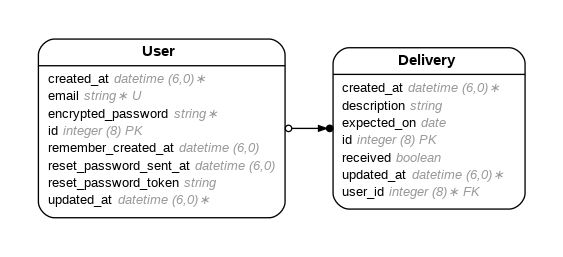
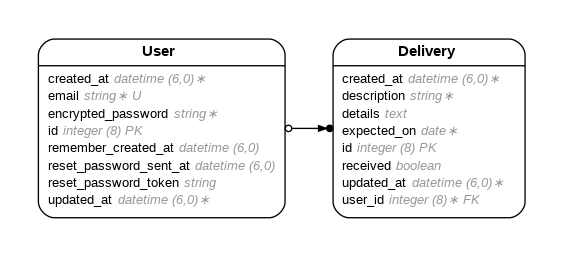
add details column to deliveries

Changed region(s): [[0.5737, 0.1245, 0.9361, 0.8716]]

diff --git a/db/schema.rb b/db/schema.rb
@@ -10,7 +10,7 @@
 #
 # It's strongly recommended that you check this file into your version control system.
 
-ActiveRecord::Schema[7.1].define(version: 2025_07_23_042348) do
+ActiveRecord::Schema[7.1].define(version: 2025_07_23_055056) do
   # These are extensions that must be enabled in order to support this database
   enable_extension "plpgsql"
 
@@ -21,6 +21,7 @@ ActiveRecord::Schema[7.1].define(version: 2025_07_23_042348) do
     t.bigint "user_id", null: false
     t.datetime "created_at", null: false
     t.datetime "updated_at", null: false
+    t.text "details"
     t.index ["user_id"], name: "index_deliveries_on_user_id"
   end
 

diff --git a/app/models/delivery.rb b/app/models/delivery.rb
@@ -4,6 +4,7 @@
 #
 #  id          :bigint           not null, primary key
 #  description :string
+#  details     :text
 #  expected_on :date
 #  received    :boolean
 #  created_at  :datetime         not null

diff --git a/db/migrate/20250723055056_add_details_to_deliveries.rb b/db/migrate/20250723055056_add_details_to_deliveries.rb
@@ -1,0 +1,5 @@
+class AddDetailsToDeliveries < ActiveRecord::Migration[7.1]
+  def change
+    add_column :deliveries, :details, :text
+  end
+end
